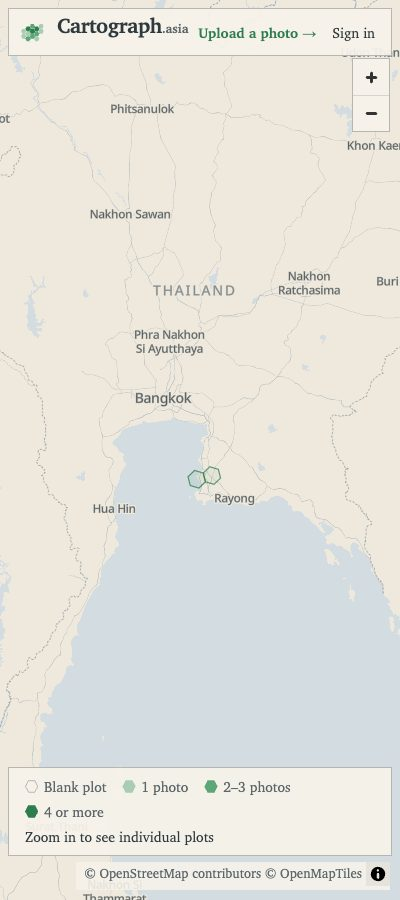
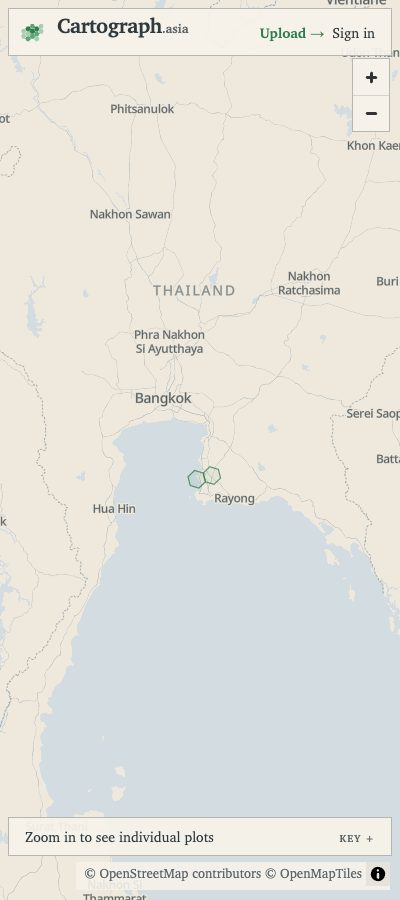
docs: map decisions from the second review

diff --git a/docs/decisions.md b/docs/decisions.md
@@ -204,4 +204,5 @@ Decisions made while building Cartograph that are not in `CLAUDE.md` or a brief.
 - 2026-11-01 – The small maps colour plots in the three greens of `/map` by photo count (Adrian): `views.CellStatus.Photos` and `SurveyorPage.PlotPhotos` carry the counts (everyone's photos of the plot), the pages pass them as `data-photos`, and the SVG fallback uses the classes `s1`–`s3`.
 - 2026-11-01 – `/map` redraws its grid every 150 ms while the map moves, from the data already loaded, and fetches as soon as the movement ends (it waited 200 ms after it). Plot requests carry 800 cells: Caddy refuses request lines past about 20 KB with a 431, so the API's limit of 2000 cells (32 KB of URL) left large views uncoloured.
 - 2026-11-01 – The `/map` key follows the zoom (Adrian): close in it shows the plot greens and "Each plot is about 0.74 km²"; in coverage mode it shows groups of plots, shaded by the share surveyed (1 plot, about half, all), and their size from H3 ("49 plots, about 36 km²" at resolution 6, "343 plots, about 253 km²" at 5). Before, it explained single plots at every zoom.
-- 2026-11-01 – Zoomed out, a group of plots with photos is outlined in ink under the mouse and the cursor is the pointing hand; a click zooms until that group fills the view (8 % padding), and at least to zoom 10, so that it always lands on single plots: on a phone a large group (343 plots) would otherwise fit at about zoom 9, still among groups (Adrian). Blank groups are neither outlined nor clickable; there the map just pans (Adrian). It replaces the zoom-in cursor over the whole map and the click that zoomed three steps around the mouse.
+- 2026-11-01 – Zoomed out, a group of plots with photos is outlined in ink under the mouse and the cursor is the pointing hand; a click zooms until that group fills the view (8 % padding), and at least to zoom 10, so that it always lands on single plots: on a phone a large group (343 plots) would otherwise fit at about zoom 9, still among groups (Adrian). Blank groups are neither outlined nor clickable; there the map just pans (Adrian). Close in, likewise only plots with photos are outlined and clickable; a blank plot does nothing, because an upload finds its plot from the photo's GPS position, not from a click (Adrian). It replaces the zoom-in cursor over the whole map and the click that zoomed three steps around the mouse.
+- 2026-11-01 – Changes of scale on `/map` cross-fade over 350 ms instead of switching at once (Adrian): single plots and groups when the view crosses zoom 10, and the two group sizes at zoom 7, where the groups of the old size are kept in a second source while they fade out. MapLibre has no layer opacity, so the fade factor is written into every opacity expression.

diff --git a/docs/design/round-3/README.md b/docs/design/round-3/README.md
@@ -34,7 +34,8 @@ The three layouts that were compared are in [variants/](variants/), named `{a,b,
 2. **The key on phones** is one line, the status and a "Key +" toggle; the legend and the line about plots open above it. From 768 px it stays open.
 3. **Small maps** colour plots in the three greens by photo count (1, 2–3, 4 or more), like `/map`; the no-JS outline does the same.
 4. **The key follows the zoom:** single plots close in; further out, where the map groups plots, it says how many plots a shape holds (49 or 343) and how it is shaded.
-5. **Groups with photos are clickable:** under the mouse such a group is outlined, and a click zooms until it fills the view. Blank groups only pan.
+5. **Only what has photos is clickable:** a group with photos is outlined under the mouse, and a click zooms until it fills the view (at least to single plots). Close in, a plot with photos is outlined and opens its panel. Blank groups and blank plots only pan; an upload finds its plot from the photo's GPS position.
+6. **Cross-fade between scales:** single plots and groups, and the two group sizes, fade into each other over 350 ms instead of switching at once.
 
 Also fixed on the way:
 
